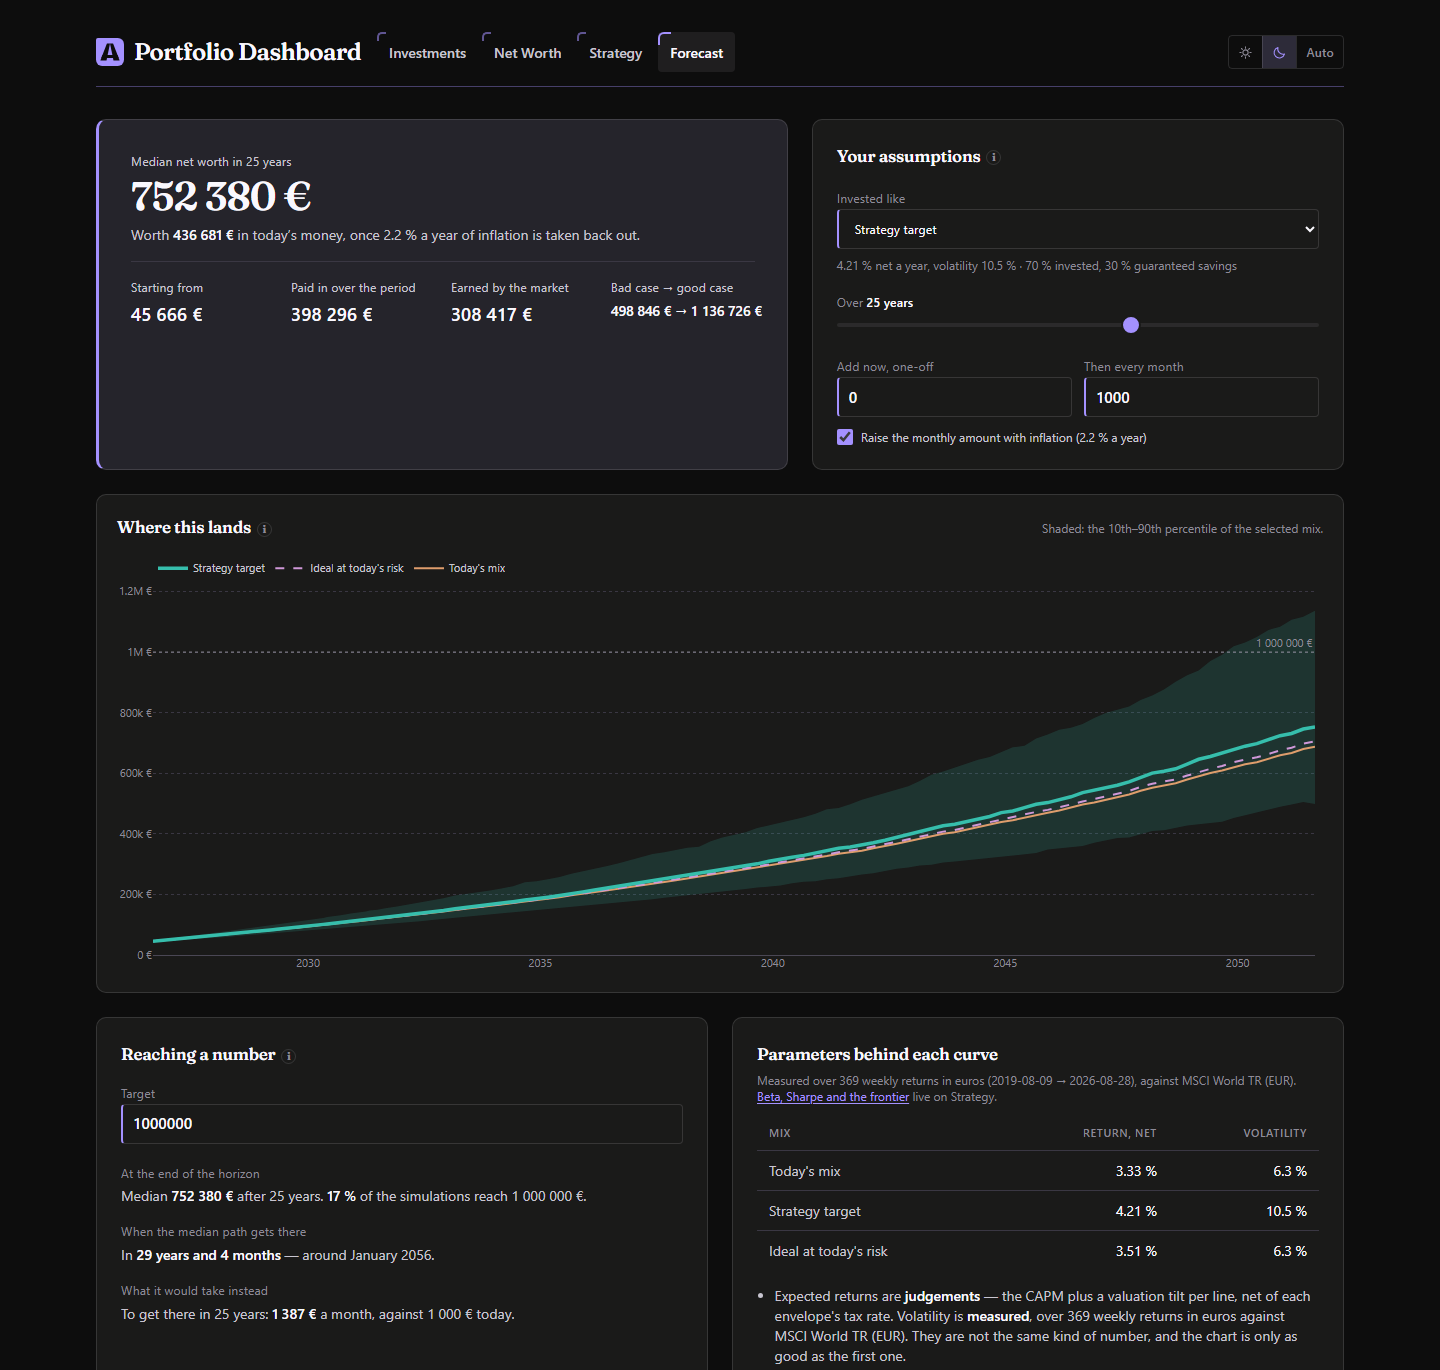
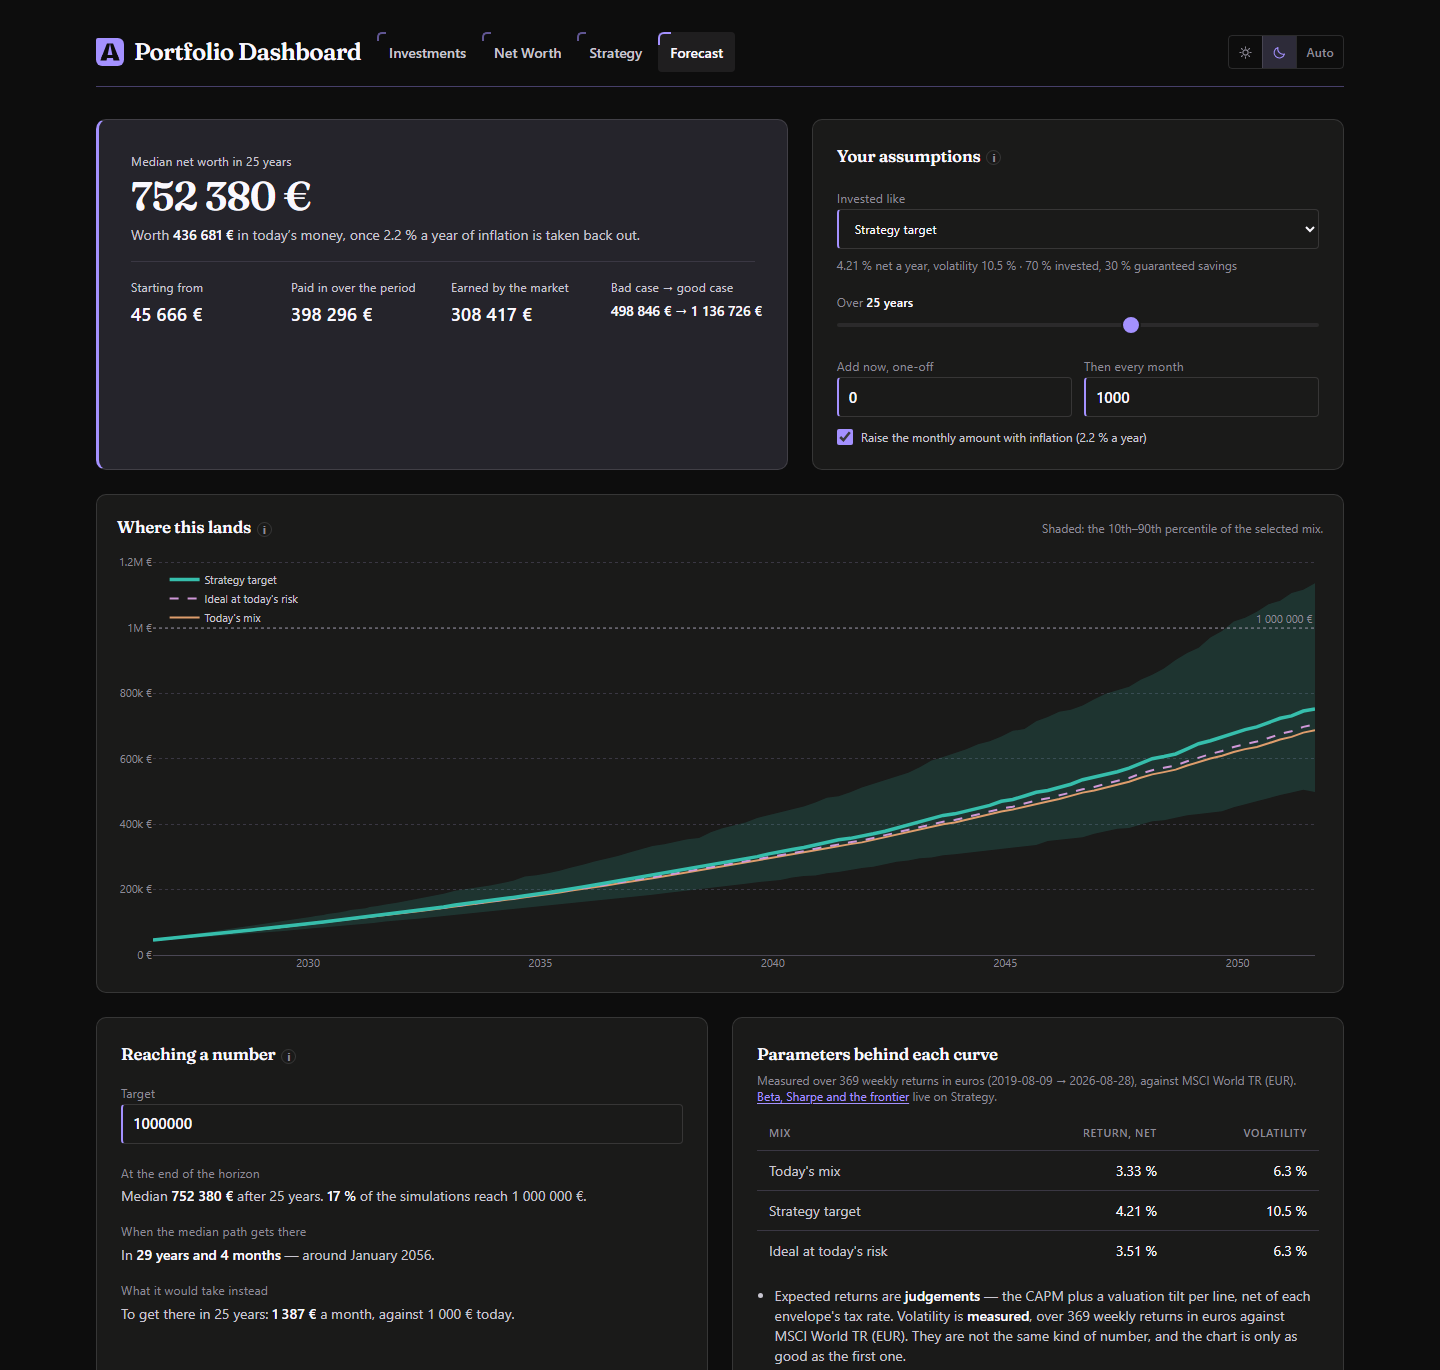
Stop the tooltips borrowing the serif, and give the curves their room
Two things I got wrong.

The info bubbles were set in Fraunces. They sit inside h2.section-title,
so they inherited the display serif and rendered explanatory prose — the
bubble, its "i" and every paragraph in it — in a heading face. The serif
is for headings; something that merely sits inside one is not a heading.
Pinned to the sans, and there is now a check that no element outside
h1/h2/h3 or .hero-value resolves to Fraunces on any view or tab.

The line charts were still cramped, and the measurement said 87% width so
I stopped looking. Width was never their problem: they were spending their
HEIGHT on a legend and their left margin on writing the same three zeros
five times.

- Legends move inside the plot, into the corner the data leaves empty:
  top left for the two rising curves, bottom right for the frontier, which
  climbs the other way. Vertical rather than horizontal — a horizontal
  legend spans the full width and reaches back into the corner where the
  curve ends.
- Buy and Sell leave the legend. A green up triangle and a red down
  triangle on a price line need no key, and they were the two entries that
  forced a second row.
- Portfolio value ticks read "20k €" instead of "20 000 €".

  chart-performance   74% -> 92% of its height, 87% -> 91% of its width
  chart-projection    76% -> 92%
  chart-frontier      64% -> 89%

Screenshots regenerated.

diff --git a/dashboard/templates/forecast.html b/dashboard/templates/forecast.html
@@ -549,8 +549,11 @@
                  // The floor of 1 keeps Plotly off a degenerate [0, 0] range on a
                  // brand-new setup with nothing saved and nothing contributed yet.
                  fixedrange: true, range: [0, Math.max(top * 1.06, 1)], automargin: true },
-        legend: { orientation: 'h', yanchor: 'bottom', y: 1.02, xanchor: 'left', x: 0,
-                  font: { size: 11 } },
+        // Inside the plot, top left. These curves rise left to right, so that
+        // corner is empty; above the plot the legend wrapped and took 54px off
+        // a 294px figure on a phone.
+        legend: { yanchor: 'top', y: 0.99, xanchor: 'left', x: 0.01,
+                  bgcolor: 'rgba(0,0,0,0)', font: { size: 11 } },
         hovermode: 'x unified',
         shapes: showTarget ? [{ type: 'line', xref: 'paper', x0: 0, x1: 1, yref: 'y',
                                 y0: target, y1: target,

diff --git a/dashboard/templates/base.html b/dashboard/templates/base.html
@@ -141,6 +141,12 @@
      child of the icon, so moving onto it keeps :hover alive and its links stay
      clickable. Opens rightwards from the icon (never centered) so a title near
      the left edge cannot push the bubble off-screen. */
+  /* The bubble and its icon live inside h2.section-title, so they inherited
+     the display serif and set explanatory prose in a heading face. The serif
+     is for headings; everything that only happens to sit inside one is not a
+     heading. */
+  .info, .info-icon, .info-bubble, .info-para { font-family: var(--font-sans); }
+
   .info { position: relative; display: inline-flex; align-items: center; justify-content: center;
           width: 15px; height: 15px; margin-left: 6px; flex: none; vertical-align: middle;
           border: 1px solid var(--border); border-radius: var(--r-pill); background: transparent;

diff --git a/dashboard/app.py b/dashboard/app.py
@@ -399,7 +399,7 @@ def _build_performance_fig(hist: pd.DataFrame, events: pd.DataFrame) -> dict:
             fig.add_trace(
                 go.Scatter(
                     x=buys["date"], y=buys["y"],
-                    name="Buy",
+                    name="Buy", showlegend=False,
                     mode="markers",
                     marker=dict(symbol="triangle-up", size=10, color=COLOR_AQUA, line=dict(width=1.5, color="var(--surface-1)")),
                     customdata=list(zip(buys["name"], buys["amount"])),
@@ -410,7 +410,7 @@ def _build_performance_fig(hist: pd.DataFrame, events: pd.DataFrame) -> dict:
             fig.add_trace(
                 go.Scatter(
                     x=sells["date"], y=sells["y"],
-                    name="Sell",
+                    name="Sell", showlegend=False,
                     mode="markers",
                     # Red against the green Buy: the universal convention, and the
                     # one the eye expects on a trade marker. (It was violet before
@@ -430,8 +430,20 @@ def _build_performance_fig(hist: pd.DataFrame, events: pd.DataFrame) -> dict:
         # gets captured by Plotly as a pan/zoom instead of scrolling the page — the
         # chart feels "stuck" to touch. Hover/tap stays active.
         xaxis=dict(showgrid=False, fixedrange=True),
-        yaxis=dict(showgrid=True, gridcolor="var(--grid)", tickformat=",.0f", ticksuffix=" €", fixedrange=True, tickfont=dict(size=11)),
-        legend=dict(orientation="h", yanchor="bottom", y=1.02, xanchor="left", x=0),
+        # "20k €" rather than "20 000 €". Five ticks spelled out in full cost 41px
+        # of a 326px canvas — a tenth of the figure spent writing the same three
+        # zeros five times.
+        yaxis=dict(showgrid=True, gridcolor="var(--grid)", tickformat="~s", ticksuffix=" €",
+                   fixedrange=True, tickfont=dict(size=11)),
+        # The legend sits inside the plot, top left. This curve rises left to
+        # right, so that corner is empty by construction; above the plot it was
+        # wrapping to two rows and taking 54px off a 266px figure on a phone.
+        # Stacked, not laid out horizontally: a horizontal legend spans the whole
+        # width and so reaches into the top right, where a rising curve ends. The
+        # empty region on this chart is the top left triangle, and a vertical
+        # legend stays inside it.
+        legend=dict(yanchor="top", y=0.99, xanchor="left", x=0.01,
+                    bgcolor="rgba(0,0,0,0)", font=dict(size=11)),
         hovermode="closest",
     )
     return fig.to_dict()
@@ -728,8 +740,11 @@ def _build_frontier_fig(analytics: dict, current: dict | None) -> dict:
                    gridcolor="var(--grid)", fixedrange=True, rangemode="tozero"),
         yaxis=dict(title="Expected return, after tax", ticksuffix=" %", showgrid=True,
                    gridcolor="var(--grid)", fixedrange=True),
-        legend=dict(orientation="h", yanchor="bottom", y=1.02, xanchor="left", x=0,
-                    font=dict(size=11)),
+        # Bottom right, inside the plot: the frontier climbs from bottom left to
+        # top right, so that corner is empty by construction. Above the plot,
+        # five entries wrapped and claimed 112px of a 420px figure.
+        legend=dict(yanchor="bottom", y=0.02, xanchor="right", x=0.98,
+                    bgcolor="rgba(0,0,0,0)", font=dict(size=11)),
         # Opted out of the mobile height cut in themeLayout. Seven legend entries
         # wrap to four rows on a phone and autoexpand claims 147px of top margin;
         # taking that out of an already-shortened 294px figure left the plot 36%
